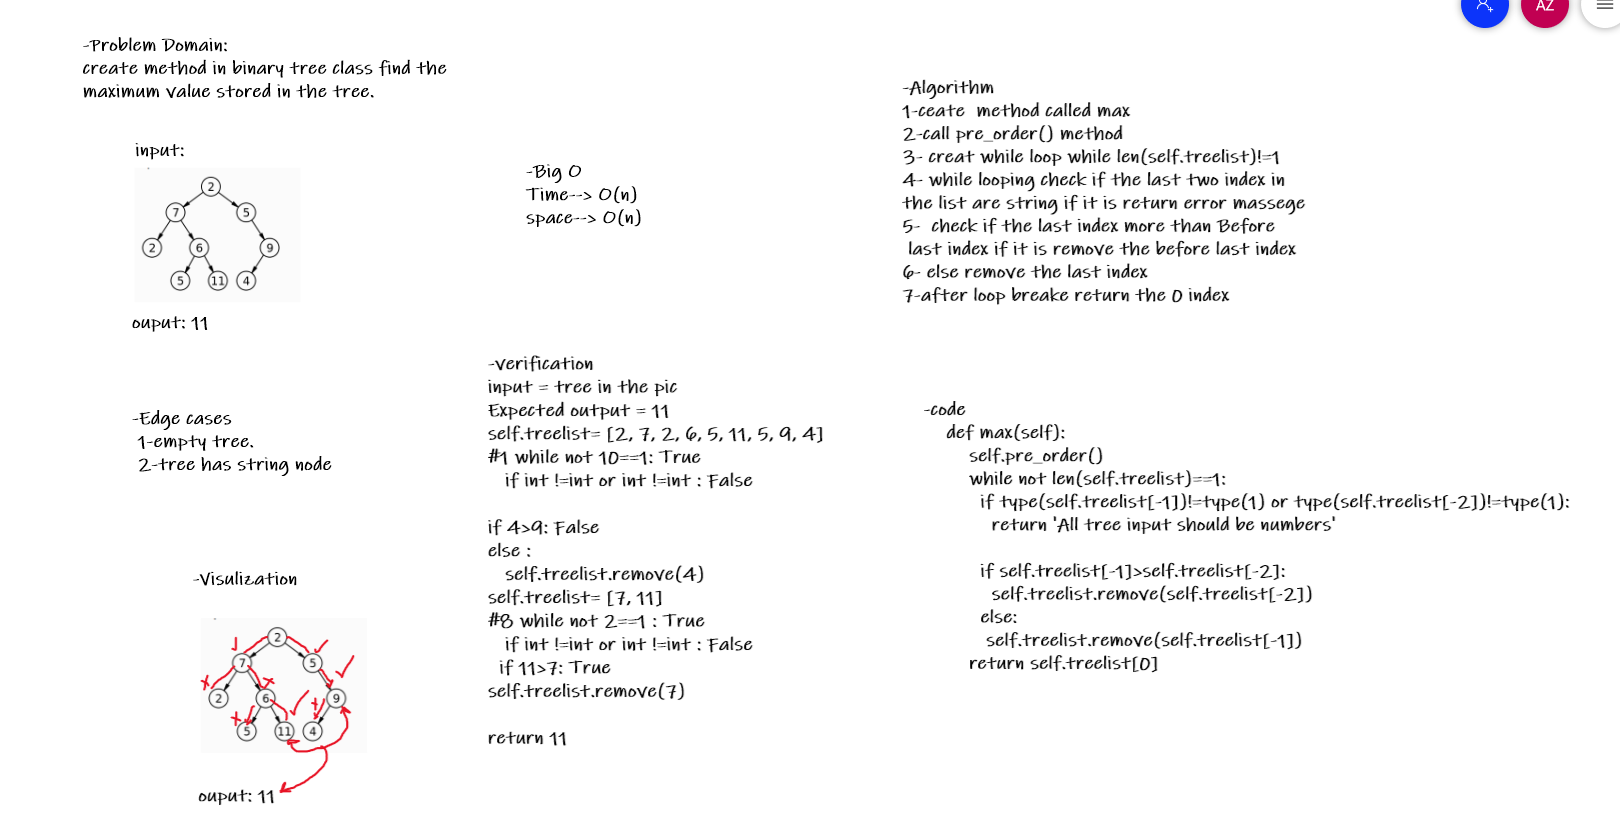
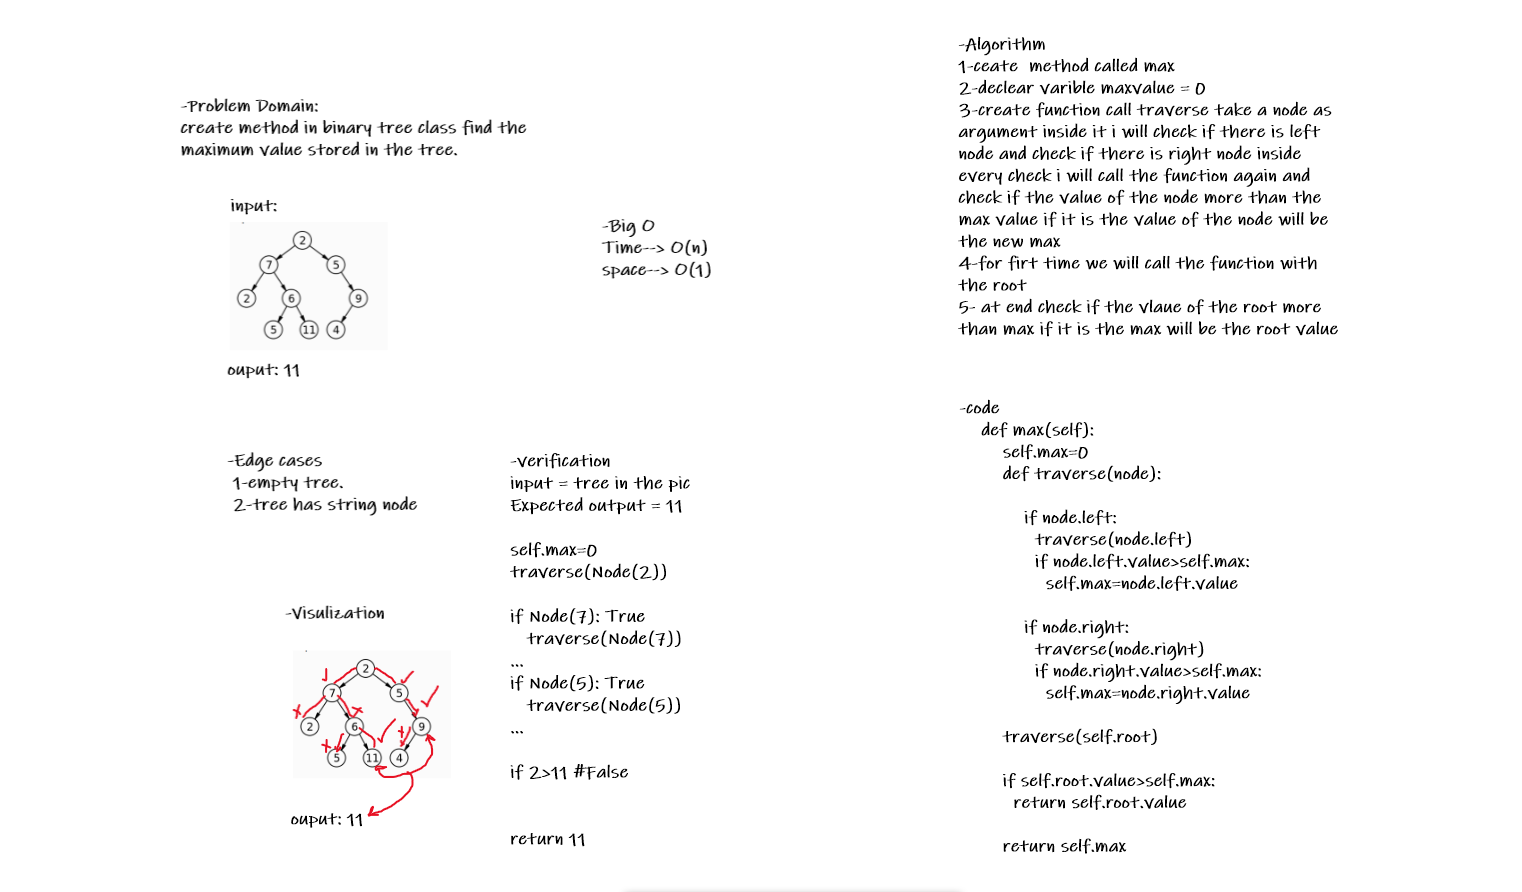
do some edits at lab16

diff --git a/data_structures_and_algorithms_401_python/Challenges/tree_breadth_first/tree_breadth_first.py b/data_structures_and_algorithms_401_python/Challenges/tree_breadth_first/tree_breadth_first.py
@@ -78,25 +78,20 @@ class BinaryTree:
         return output
 
     def max(self):
-        self.max=0
-        def traverse(node):
-
-            if node.left:
-              traverse(node.left)
-              if node.left.value>self.max:
-                self.max=node.left.value
-
-            if node.right:
-              traverse(node.right)
-              if node.right.value>self.max:
-                self.max=node.right.value
-
-        traverse(self.root)
+        self.pre_order()
         
-        if self.root.value>self.max:
-          return self.root.value
+        while not len(self.treelist)==1:
 
-        return self.max
+          if type(self.treelist[-1])!=type(1) or type(self.treelist[-2])!=type(1):
+            return 'All tree input should be numbers'     
+          if self.treelist[-1]>self.treelist[-2]:
+            self.treelist.remove(self.treelist[-2])
+          else:
+           self.treelist.remove(self.treelist[-1])
+        return self.treelist[0]
+
+    def breadth_first(self):
+        pass
 
 
 
@@ -111,7 +106,6 @@ if __name__ == "__main__":
     tree.root.left.right.right = Node(11)
     tree.root.right.right = Node(9)
     tree.root.right.right.left = Node(4)
-    print(tree.pre_order())
-    print(tree.treelist)
-    print(tree.max())
+    print(tree.breadth_first())
+
 

diff --git a/README.md b/README.md
@@ -12,7 +12,11 @@
 | Fifo Animal Shelter | [Press Here!](data_structures_and_algorithms_401_python/Challenges/fifo_animal_shelter/README.md) |
 | Multi Bracket Validation | [Press Here!](data_structures_and_algorithms_401_python/Challenges/multi_bracket_validation/README.md) |
 | Trees | [Press Here!](data_structures_and_algorithms_401_python/Data_Structures/trees/README.md) |
-| Trees | [Press Here!](data_structures_and_algorithms_401_python/Challenges/tree_max/README.md) |
+| Trees Max | [Press Here!](data_structures_and_algorithms_401_python/Challenges/tree_max/README.md) |
+| Tree Breadth First | [Press Here!](data_structures_and_algorithms_401_python/Challenges/tree_breadth_first/README.md) |
+
+
+
 
 
 
